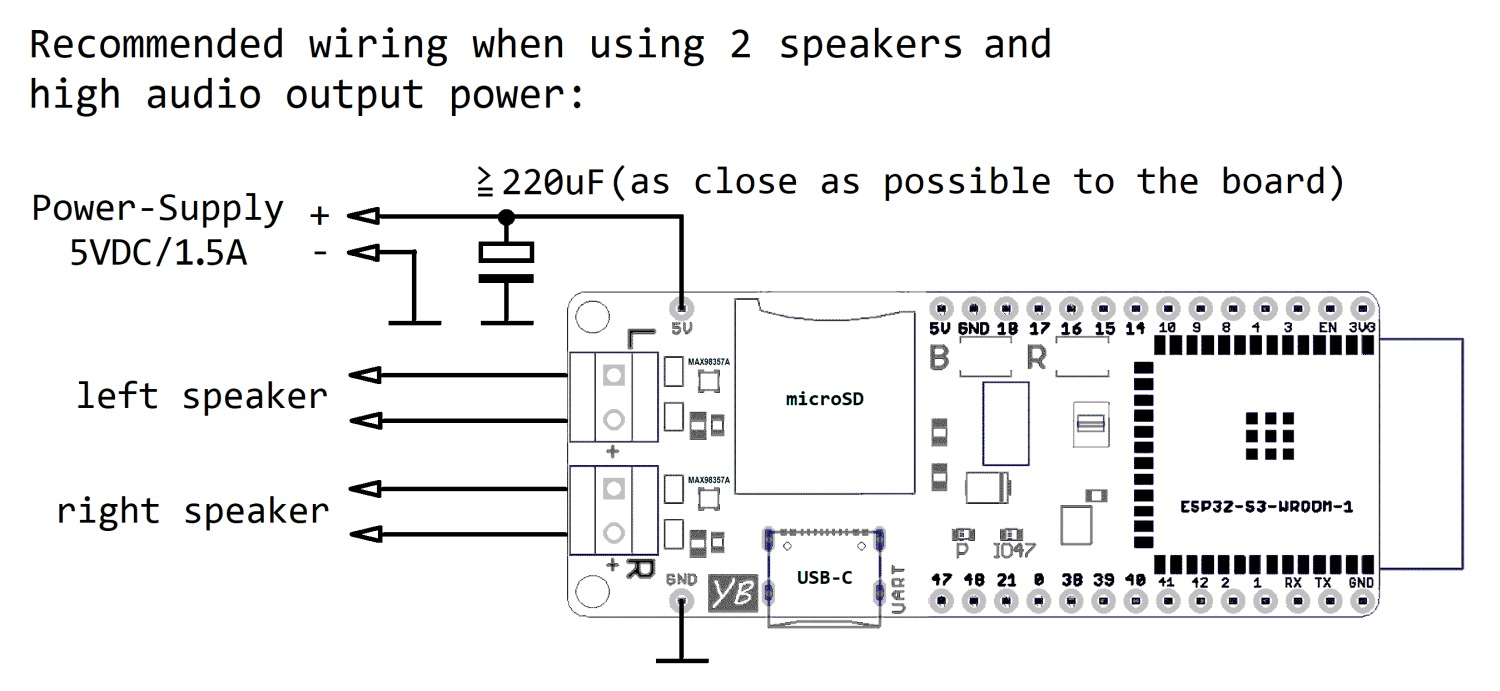
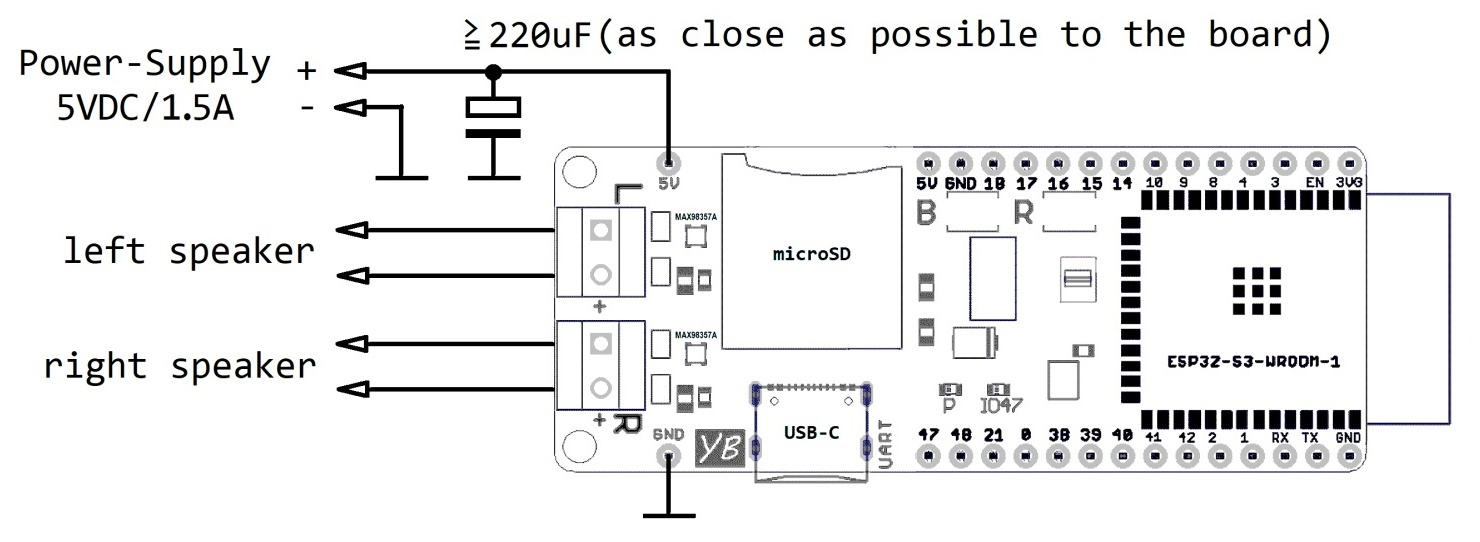
Update Readme.md

Changed region(s): [[0.0, 0.0295, 0.9946, 0.9742], [0.0311, 0.5609, 0.2176, 0.5904], [0.5284, 0.5609, 0.5905, 0.5904]]

diff --git a/boards/YB-ESP32-S3-AMP/Readme.md b/boards/YB-ESP32-S3-AMP/Readme.md
@@ -73,14 +73,6 @@ Going a step further and putting these files to your development platforms *core
 
  ![](https://github.com/yellobyte/ESP32-DevBoards-Getting-Started/raw/main/boards/YB-ESP32-S3-AMP/doc/YB-ESP32-S3-AMP_PlatformIO_board_selection.jpg)
 
-### General notes:
-
-1) In case you get left channel output on the right speaker and vice-versa (L + R channels are swapped) you need to build with a [newer ESP32-AudioI2S library version](https://github.com/schreibfaul1/ESP32-audioI2S/releases) with this error fixed.
-
-2) The ESP32-S3 includes four SPI controllers: SPI0, SPI1, SPI2(Fast SPI) and SPI3. SPI0/1 are reserved for Flash and PSRAM (if available) and should be left alone. The remaining two are available for the public. In the Arduino universe SPI2 & SPI3 are named FSPI & HSPI. FSPI by default is assigned to GPIOs 10-15 and routed via IO MUX. However, both can get pinned to any available GPIO pin if needed but FSPI will be slower if routed through GPIO Matrix
-
-3) The ESP32-S3-WROOM-1 module family comprises several [**versions**](https://github.com/yellobyte/ESP32-DevBoards-Getting-Started/raw/main/boards/YB-ESP32-S3-AMP/doc/ESP32-S3-WROOM-1(U)_Variants.jpg). The **-1** versions come with embedded PCB antenna, the **-1U** versions with IPEX antenna socket instead. The extension -Nx(Ry) defines the amount of integrated FLASH/PSRAM, e.g. -N4 (4MB Flash, no PSRAM), -N4R2 (4 MB Flash, 2MB PSRAM), -N8R2 (8 MB Flash, 2MB PSRAM) etc.  
-
 ### Software Upload to the board:
 In rare cases you might see the following after powering up the board:  
 ```
@@ -138,5 +130,19 @@ Advanced Memory Usage is available via "PlatformIO Home > Project Inspect"
 RAM:   [=         ]   8.4% (used 27608 bytes from 327680 bytes)
 Flash: [===       ]  28.5% (used 950957 bytes from 3342336 bytes)
 ```
-## Remark:  
-All YB-ESP32-S3-AMP boards delivered are already flashed with software example 'Play-All-MP3-Files-on-SD'. For a quick board test just insert a microSD card (FAT32) into the socket holding some *.mp3 files, connect one or two speaker(s) to the board and power it up.
+### Wiring:
+
+Each audio channel can produce max. 3.2W output power at 4 Ohms. If your project comes into this region then it is recommended to use a capable power supply (5VDC/1.5A) and preferably an additional capacitor of min. 220uF or greater value across the 5V/GND pins of the board as shown below:  
+
+![](https://github.com/yellobyte/ESP32-DevBoards-Getting-Started/raw/main/boards/YB-ESP32-S3-AMP/doc/YB-ESP32-S3-AMP_recommended_wiring.jpg)
+
+### General notes:
+
+1) In case you get left channel output on the right speaker and vice-versa (L + R channels are swapped) you need to build with a [newer ESP32-AudioI2S library version](https://github.com/schreibfaul1/ESP32-audioI2S/releases) with this error fixed.
+
+2) The ESP32-S3 includes four SPI controllers: SPI0, SPI1, SPI2(Fast SPI) and SPI3. SPI0/1 are reserved for Flash and PSRAM (if available) and should be left alone. The remaining two are available for the public. In the Arduino universe SPI2 & SPI3 are named FSPI & HSPI. FSPI by default is assigned to GPIOs 10-15 and routed via IO MUX. However, both can get pinned to any available GPIO pin if needed but FSPI will be slower if routed through GPIO Matrix
+
+3) The ESP32-S3-WROOM-1 module family comprises several [**versions**](https://github.com/yellobyte/ESP32-DevBoards-Getting-Started/raw/main/boards/YB-ESP32-S3-AMP/doc/ESP32-S3-WROOM-1(U)_Variants.jpg). The **-1** versions come with embedded PCB antenna, the **-1U** versions with IPEX antenna socket instead. The extension -Nx(Ry) defines the amount of integrated FLASH/PSRAM, e.g. -N4 (4MB Flash, no PSRAM), -N4R2 (4 MB Flash, 2MB PSRAM), -N8R2 (8 MB Flash, 2MB PSRAM) etc.  
+
+## Final Remark:  
+All YB-ESP32-S3-AMP boards delivered are already flashed with software example 'Play-All-MP3-Files-on-SD'. For a quick board test just insert a microSD card (FAT32) into the socket holding some *.mp3 files, connect one or two speaker(s) to the board and power it up (via USB or 5V pins).
